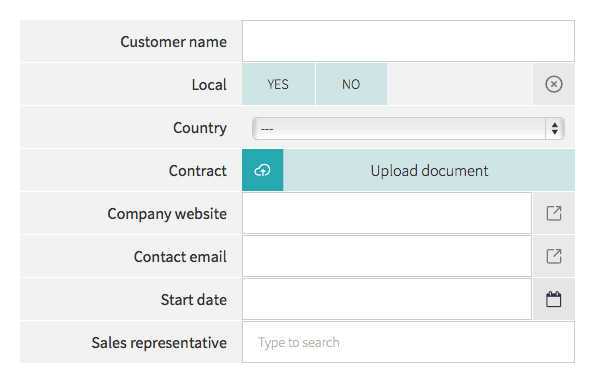
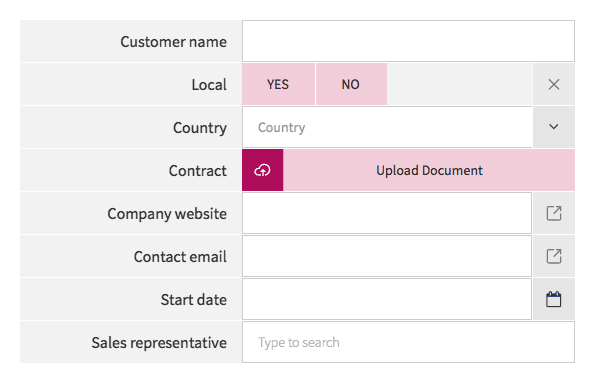
#107 Update screenshots with Signavio theme

diff --git a/docs/access.rst b/docs/access.rst
@@ -76,12 +76,7 @@ You need to use the *Edit task* permission to restrict access to the approval us
 so that only managers can provide the approval.
 
 To apply user task restrictions, open a process and select the user task.
-In the user task configuration panel, select the *Access Rights* tab:
-
-.. figure:: /_static/images/access-control/task-rights.png
-
-   User task access rights
-
+In the user task configuration panel, select the *Access Rights* tab.
 Click the *Define specific access* button to configure access control.
 
 .. figure:: /_static/images/access-control/task-controls.png
